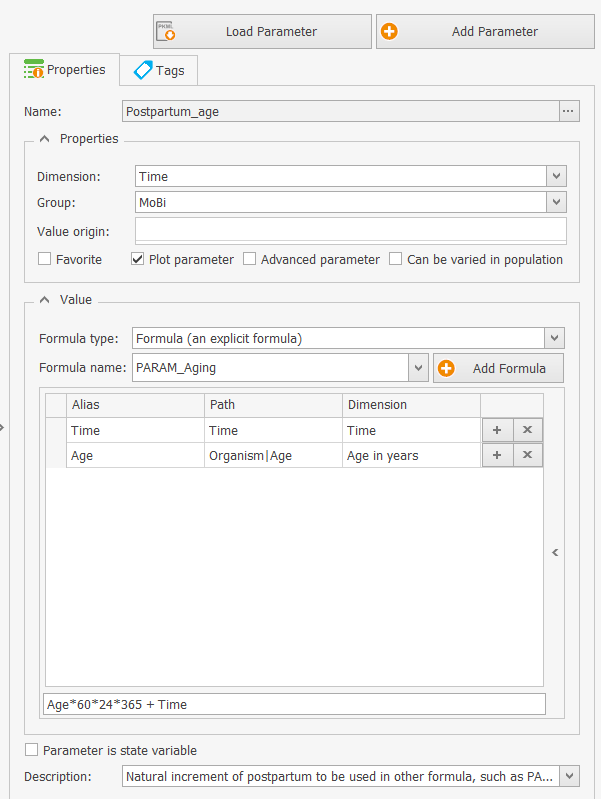
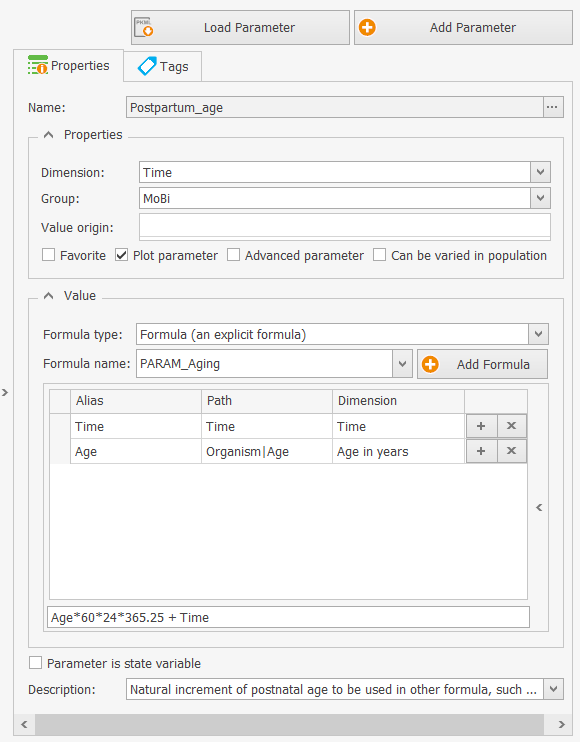
Addressing comments for pull request

diff --git a/part-5/db_extraction-physiological-parameters.md b/part-5/db_extraction-physiological-parameters.md
@@ -1,20 +1,22 @@
-# Extraction of physiological parameters from a PKSim Db population
+# Extraction of physiological parameters from a PK-Sim population database
 
 ## Use case description
 
-In this use case, we describe how to **access** and **extract** the **physiological parameters** from the postpartum population in the **PKSim Database (Db)** and how to use that output to **create growth tables** in **Mobi to describe** time-varying physiological parameters.
+In this use case, we describe how to **access** and **extract** the **physiological parameters** from the postpartum population in the **PK-Sim Database (Db)** and how to use that output to **create growth tables** in **MoBi to describe** age-dependent (or time-varying) physiological parameters.
 
 ## Process
 
 ### Download Database and explore content
 
-The latest version of the PKSim Db can always be downloaded via this link: [PKSim Db](https://github.com/Open-Systems-Pharmacology/PK-Sim/raw/develop/src/Db/PKSimDB.sqlite).
+The latest version of the PK-Sim database can always be downloaded via this link: [PK-Sim database](https://github.com/Open-Systems-Pharmacology/PK-Sim/raw/develop/src/Db/PKSimDB.sqlite).
 
-For reproducibility of the use case described here below, the following version may be used: [PKsimDB_v11.sqlite](https://github.com/open-systems-pharmacology/pk-sim/blob/6dc119cfa8884fe14f5c7c98d54c47970bb1e219/src/db/pksimdb.SQLite)
+For reproducibility of the use case described here below, the following version may be used: [PKsimDB_v11.sqlite](https://github.com/Open-Systems-Pharmacology/Lactation-PBPK-model/blob/main/PKSimDB_v11.sqlite)
 
 For a graphical interface and data visualization, applications such as [Db Browser for SQLite](https://sqlitebrowser.org/) are available.
 
-![Prospective exploration of the PKSim Db with DB Browser for SQLite - Postpartum population](../assets/images/part-5/ExploreDb.png)
+![Prospective exploration of the PK-Sim database with DB Browser for SQLite - Postpartum population](../assets/images/part-5/ExploreDb.png)
+
+For detailed documentation, please visit: [PK-Sim database documentation](https://dev.open-systems-pharmacology.org/pk-sim-database/db).
 
 ### Access and extract population data to a spreadsheet
 
@@ -34,7 +36,7 @@ result <- dbGetQuery(conn, query)
 # Filtering population with 'Postpartum' and selecting 'ContainerName', 'ParameterName', 'Age', and 'Mean' columns
 
 result_filtered <- result %>% 
-  dplyr::select(Population, ContainerName, ParameterName, Age, Mean) 
+  dplyr::select(Population, ContainerName, ParameterName, Age, Mean, Dimension) 
 
 result_postpartum <- result %>% 
   dplyr::select(Population, ContainerName, ParameterName, Age, Mean) %>%
@@ -48,14 +50,14 @@ writeData(wb, sheet = "Postpartum",
           result_filtered %>%
             dplyr::filter(Population %in% "Postpartum"))
 
-saveWorkbook(wb, "data/param_distributions.xlsx", overwrite = TRUE)
+saveWorkbook(wb, "data/param_distributions_postpartum.xlsx", overwrite = TRUE)
 ```
 
-### Extract time-varying parameters of interest programmatically
+### Extract age-dependent parameters of interest programmatically
 
-A parameter is classified as 'time-varying' within the database if its value changes corresponding to different entries in the 'Age' column.
+A parameter is classified as 'age-dependent' within the database if its value changes corresponding to different entries in the 'Age' column.
 
-In the context of this exemplary case study (focused in the postpartum population), a parameter is classified as 'time-varying' when the following condition is met:
+In the context of this exemplary case study (focused in the postpartum population), a parameter is classified as age-dependent when the following condition is met:
 
 -   There is more than one record of the parameter in the database for the attribute 'Age' in the interval [30,31]
 
@@ -66,7 +68,7 @@ library(dplyr, quietly = TRUE)
 library(openxlsx)
 
 # Load distributed parameters from extracted Db file
-file.path <- "data/param_distributions_postpartum.csv"
+file.path <- "data/param_distributions_postpartum.xlsx"
 db <- readWorkbook(file.path)
 df <- tibble::as_tibble(db)
 
@@ -98,9 +100,9 @@ saveWorkbook(wb, "data/Postpartum_distributed_parameters.xlsx", overwrite = TRUE
 
 The user interface of the database viewer tool (e.g. Db Browser for SQLite) may also be used to extract the parameters of interest (i.e. distributed parameters).
 
-### Import in Mobi as Table & create time-varying parameters
+### Import in MoBi as Table & create age-dependent parameters
 
-In Mobi:
+In MoBi:
 
 1.  Create a Postpartum_Age parameter increasing over simulation time (NB: the parameter 'Age' remains constant):
 
@@ -118,7 +120,7 @@ In Mobi:
 
         ![Fig1: Postpartum Age](../assets/images/part-5/Postpartum_age.png){width="300"}
 
-2.  Open organ compartment that will contain the time-varying parameter (e.g. Breasts)
+2.  Open organ compartment that will contain the age-dependent parameter (e.g. Breasts)
 
 3.  Add an intermediary Table parameter (E.g. Volume_breasts_TABLE)
 
@@ -134,11 +136,11 @@ In Mobi:
 
         -   Filter 'concatenated_path' \> "Breasts\|Volume"
 
-        -   Enter units (by default values are in the base unit of the Db, see file: [OSPSuite.Dimensions.xml](https://esqlabs.sharepoint.com/:u:/s/S-BASF-P23-195A/EZSeZvDmQFRLvKNCJRqyxyUBkv8jR2po28wDa-caVE1LMg?e=BagOhT)). Column 'Age' in years and column 'Mean' in litter (OSPS base unit for volumes)
+        -   Enter units (by default values are in the base unit of the Db, see file: [OSPSuite.Dimensions.xml](https://github.com/Open-Systems-Pharmacology/OSPSuite.Dimensions/blob/master/OSPSuite.Dimensions.xml)). Column 'Age' in years and column 'Mean' in litter (OSPS base unit for volumes)
 
 ![Fig 2: Uploading table as a Table Parameter from a worksheet](../assets/images/part-5/Table_Parameter_Breasts_Volume.png){width="345"}
 
-4.  Add a time-varying Volume parameter in the 'Breasts' compartment:
+4.  Add a age-dependent Volume parameter in the 'Breasts' compartment:
 
     -   Click 'Add parameter'
 
@@ -152,13 +154,15 @@ In Mobi:
 
     -   Path to X-Argument object should point to 'Organism\|Postpartum_age'
 
-        ![Fig 4: Time-varying Volume parameter](../assets/images/part-5/Time_varying_Volume_parameter.png){width="400"}
+        ![Fig 4: Age-dependent Volume parameter](../assets/images/part-5/Time_varying_Volume_parameter.png){width="400"}
 
-By ticking the box 'Plot parameter' for the parameters "Organism\|Postpartum_Age" and "Organism\|Breasts\|Volume", one can visualize the newly implemented time-varying parameters:\
-![Time-varying parameter in Human postpartum individual. Data extracted from the PK-Sim Database\>'Postpartum' population](../assets/images/part-5/BreastsVolume_for_Age_Postpartum.png){width="345"}
+By ticking the box 'Plot parameter' for the parameters "Organism\|Postpartum_Age" and "Organism\|Breasts\|Volume", one can visualize the newly implemented age-dependent parameters:\
+![Age-dependent parameter in Human postpartum individual. Data extracted from the PK-Sim Database\>'Postpartum' population](../assets/images/part-5/BreastsVolume_for_Age_Postpartum.png){width="345"}
 
 ## References
 
-The pospartum population as implemented in the built-in PK-Sim database and that serves as input for the current workflow, was first described by Dallmann et al. (2020).
+-   Detailed PK-Sim database documentation is available at: [PK-Sim database documentation](https://dev.open-systems-pharmacology.org/pk-sim-database/db)
 
-Source: Dallmann, André, Anneke Himstedt, Juri Solodenko, Ibrahim Ince, Georg Hempel, and Thomas Eissing. 2020. "Integration of Physiological Changes during the Postpartum Period into a PBPK Framework and Prediction of Amoxicillin Disposition before and Shortly after Delivery." *Journal of Pharmacokinetics and Pharmacodynamics* 47 (4): 341--59. <https://doi.org/10.1007/s10928-020-09706-z>.
+-   The pospartum population as implemented in the built-in PK-Sim database and that serves as input for the current workflow, was first described by Dallmann et al. (2020).
+
+    -   Source: Dallmann, André, Anneke Himstedt, Juri Solodenko, Ibrahim Ince, Georg Hempel, and Thomas Eissing. 2020. "Integration of Physiological Changes during the Postpartum Period into a PBPK Framework and Prediction of Amoxicillin Disposition before and Shortly after Delivery." *Journal of Pharmacokinetics and Pharmacodynamics* 47 (4): 341--59. <https://doi.org/10.1007/s10928-020-09706-z>.

diff --git a/SUMMARY.md b/SUMMARY.md
@@ -1,89 +1,88 @@
 # Table of contents
 
-* [README](README.md)
-* [Open Systems Pharmacology Suite Manual & Copyright](copyright.md)
-* [How to Contribute](how-to-contribute.md)
+-   [README](README.md)
+-   [Open Systems Pharmacology Suite Manual & Copyright](copyright.md)
+-   [How to Contribute](how-to-contribute.md)
 
 ## Mechanistic Modeling of Pharmacokinetics and Dynamics
-* Best Practices
-    * [Introduction](part-7/a-short-guide-to-pbpk-model-development.md)
-    * [Model Development](part-7/model-development.md)
-    * [Model Evaluation](part-7/model-evaluation.md)
-    * [Application Simulation](part-7/application-simulation.md)
-    * [Documentation](part-7/documentation.md)
-  
-* Modeling Concepts
-  * [PBPK Modeling - Systems Biology](part-1/modeling-concepts-pbpk-modeling-systems-biology.md)
-  * [PK and PD Modeling](part-1/modeling-concepts-pk-and-pd-modeling.md)
-  * [Principles of PBPK Modeling](part-1/principles-of-pbpk-modeling.md)
-  * [Expression Data for PBPK Modeling](part-1/modeling-concepts-expression-data-for-pbpk-modeling.md)
-  * [Modeling of Proteins](part-1/modeling-concepts-modeling-of-proteins.md)
-  * [PD and Reaction Network Modeling](part-1/modeling-concepts-pd-and-reaction-network-modeling.md)
+
+-   Best Practices
+    -   [Introduction](part-7/a-short-guide-to-pbpk-model-development.md)
+    -   [Model Development](part-7/model-development.md)
+    -   [Model Evaluation](part-7/model-evaluation.md)
+    -   [Application Simulation](part-7/application-simulation.md)
+    -   [Documentation](part-7/documentation.md)
+-   Modeling Concepts
+    -   [PBPK Modeling - Systems Biology](part-1/modeling-concepts-pbpk-modeling-systems-biology.md)
+    -   [PK and PD Modeling](part-1/modeling-concepts-pk-and-pd-modeling.md)
+    -   [Principles of PBPK Modeling](part-1/principles-of-pbpk-modeling.md)
+    -   [Expression Data for PBPK Modeling](part-1/modeling-concepts-expression-data-for-pbpk-modeling.md)
+    -   [Modeling of Proteins](part-1/modeling-concepts-modeling-of-proteins.md)
+    -   [PD and Reaction Network Modeling](part-1/modeling-concepts-pd-and-reaction-network-modeling.md)
 
 ## Open Systems Pharmacology Suite
 
-* [Modules, Philosophy, and Building Blocks](part-2/modules-philsophy-building-blocks.md)
-* [Getting Started](part-2/getting-started.md)
+-   [Modules, Philosophy, and Building Blocks](part-2/modules-philsophy-building-blocks.md)
+-   [Getting Started](part-2/getting-started.md)
 
 ## Working with PK-Sim
 
-* PK-Sim Documentation
-  * [Quick Guide](part-3/pk-sim-quick-guide.md)
-  * [Options](part-3/pk-sim-options.md)
-  * [Projects](part-3/pk-sim-projects.md)
-  * [Creating Individuals](part-3/pk-sim-creating-individuals.md)
-  * [Creating Populations](part-3/pk-sim-creating-populations.md)
-  * [Expression Profile](part-3/pk-sim-expression-profile.md)
-  * [Compounds: Definition and Work Flows](part-3/pk-sim-compounds-definition-and-work-flow.md)
-  * [Compounds: Defining Inhibition/Induction Processes](part-3/pk-sim-compounds-defining-inhibition-induction-processes.md)
-  * [Administration Protocols](part-3/pk-sim-administration-protocols.md)
-  * [Events](part-3/pk-sim-events.md)
-  * [Formulations](part-3/pk-sim-formulations.md)
-  * [Simulations](part-3/pk-sim-simulations.md)
-  * [Importing and Exporting Project Data and Models](part-3/importing-exporting-project-data-models.md)
-  * [Conversion of Projects from Previous Version](part-3/conversion-projects-from-previous-version.md)
-  * [Command Line Interface - CLI](part-3/pk-sim-command-line-interface.md)
+-   PK-Sim Documentation
+    -   [Quick Guide](part-3/pk-sim-quick-guide.md)
+    -   [Options](part-3/pk-sim-options.md)
+    -   [Projects](part-3/pk-sim-projects.md)
+    -   [Creating Individuals](part-3/pk-sim-creating-individuals.md)
+    -   [Creating Populations](part-3/pk-sim-creating-populations.md)
+    -   [Expression Profile](part-3/pk-sim-expression-profile.md)
+    -   [Compounds: Definition and Work Flows](part-3/pk-sim-compounds-definition-and-work-flow.md)
+    -   [Compounds: Defining Inhibition/Induction Processes](part-3/pk-sim-compounds-defining-inhibition-induction-processes.md)
+    -   [Administration Protocols](part-3/pk-sim-administration-protocols.md)
+    -   [Events](part-3/pk-sim-events.md)
+    -   [Formulations](part-3/pk-sim-formulations.md)
+    -   [Simulations](part-3/pk-sim-simulations.md)
+    -   [Importing and Exporting Project Data and Models](part-3/importing-exporting-project-data-models.md)
+    -   [Conversion of Projects from Previous Version](part-3/conversion-projects-from-previous-version.md)
+    -   [Command Line Interface - CLI](part-3/pk-sim-command-line-interface.md)
 
 ## Working with MoBi
 
-* MoBi Documentation
-  * [First Steps](part-4/first-steps.md)
-  * [The Building Block Concept](part-4/building-block-concepts.md)
-  * [Model Building and Model Components](part-4/model-building-components.md)
-  * [Setting up a Simulation](part-4/setting-up-simulation.md)
-  * [Simulation Results](part-4/simulation-results.md)
-  * [Diagrams Overview](part-4/diagrams-overview.md)
-  * [Tools](part-4/tools.md)
-  * [Reuse of Project Information from Previous Versions](part-4/reuse-of-project-information-from-previous-versions.md)
+-   MoBi Documentation
+    -   [First Steps](part-4/first-steps.md)
+    -   [The Building Block Concept](part-4/building-block-concepts.md)
+    -   [Model Building and Model Components](part-4/model-building-components.md)
+    -   [Setting up a Simulation](part-4/setting-up-simulation.md)
+    -   [Simulation Results](part-4/simulation-results.md)
+    -   [Diagrams Overview](part-4/diagrams-overview.md)
+    -   [Tools](part-4/tools.md)
+    -   [Reuse of Project Information from Previous Versions](part-4/reuse-of-project-information-from-previous-versions.md)
 
 ## Shared Tools and Example Workflows
 
-* [Features of Tables](part-5/features-of-tables.md)
-* [Chart Component](part-5/chart-component.md)
-* [Comparison of Building Blocks](part-5/comparison-building-blocks.md)
-* [Parameter Identification](part-5/parameter-identification.md)
-* [Sensitivity Analysis](part-5/sensitivity-analysis.md)
-* [Import and Edit of Observed Data](part-5/import-edit-observed-data.md)
-* [Default, Display and Base Units](part-5/default-display-base-units.md)
-* [Working Journal](part-5/working-journal.md)
-* [History Manager and History Reporting](part-5/history-manager-history-reporting.md)
-* [Setting up a Reaction Network](part-5/setting-up-reaction-network.md)
-* [Setting up a Drug-Drug Interaction in PK-Sim](part-5/setting-drug-drug-interaction-pk-sim.md)
-* [Qualification](part-5/qualification.md)
-* [Extraction of physiological parameters from PKSim Db](part-5/db_extraction-physiological-parameters.md)
-
+-   [Features of Tables](part-5/features-of-tables.md)
+-   [Chart Component](part-5/chart-component.md)
+-   [Comparison of Building Blocks](part-5/comparison-building-blocks.md)
+-   [Parameter Identification](part-5/parameter-identification.md)
+-   [Sensitivity Analysis](part-5/sensitivity-analysis.md)
+-   [Import and Edit of Observed Data](part-5/import-edit-observed-data.md)
+-   [Default, Display and Base Units](part-5/default-display-base-units.md)
+-   [Working Journal](part-5/working-journal.md)
+-   [History Manager and History Reporting](part-5/history-manager-history-reporting.md)
+-   [Setting up a Reaction Network](part-5/setting-up-reaction-network.md)
+-   [Setting up a Drug-Drug Interaction in PK-Sim](part-5/setting-drug-drug-interaction-pk-sim.md)
+-   [Qualification](part-5/qualification.md)
+-   [Extraction of physiological parameters from PK-Sim database](part-5/db_extraction-physiological-parameters.md)
 
 ## Working with R
 
-* [ospsuite-R Documentation](part-6/introduction-ospsuite-r.md)
-* [Reporting Engine (RE)](part-6/reporting-engine.md)
-* [TLF Library](part-6/tlf-library.md)
+-   [ospsuite-R Documentation](part-6/introduction-ospsuite-r.md)
+-   [Reporting Engine (RE)](part-6/reporting-engine.md)
+-   [TLF Library](part-6/tlf-library.md)
 
 ## Appendix
 
-* [Appendix](appendix.md)
-* [OSP Suite Fact Sheet](factsheet.md)
+-   [Appendix](appendix.md)
+-   [OSP Suite Fact Sheet](factsheet.md)
 
 ## References
 
-* [References](references.md)
+-   [References](references.md)
